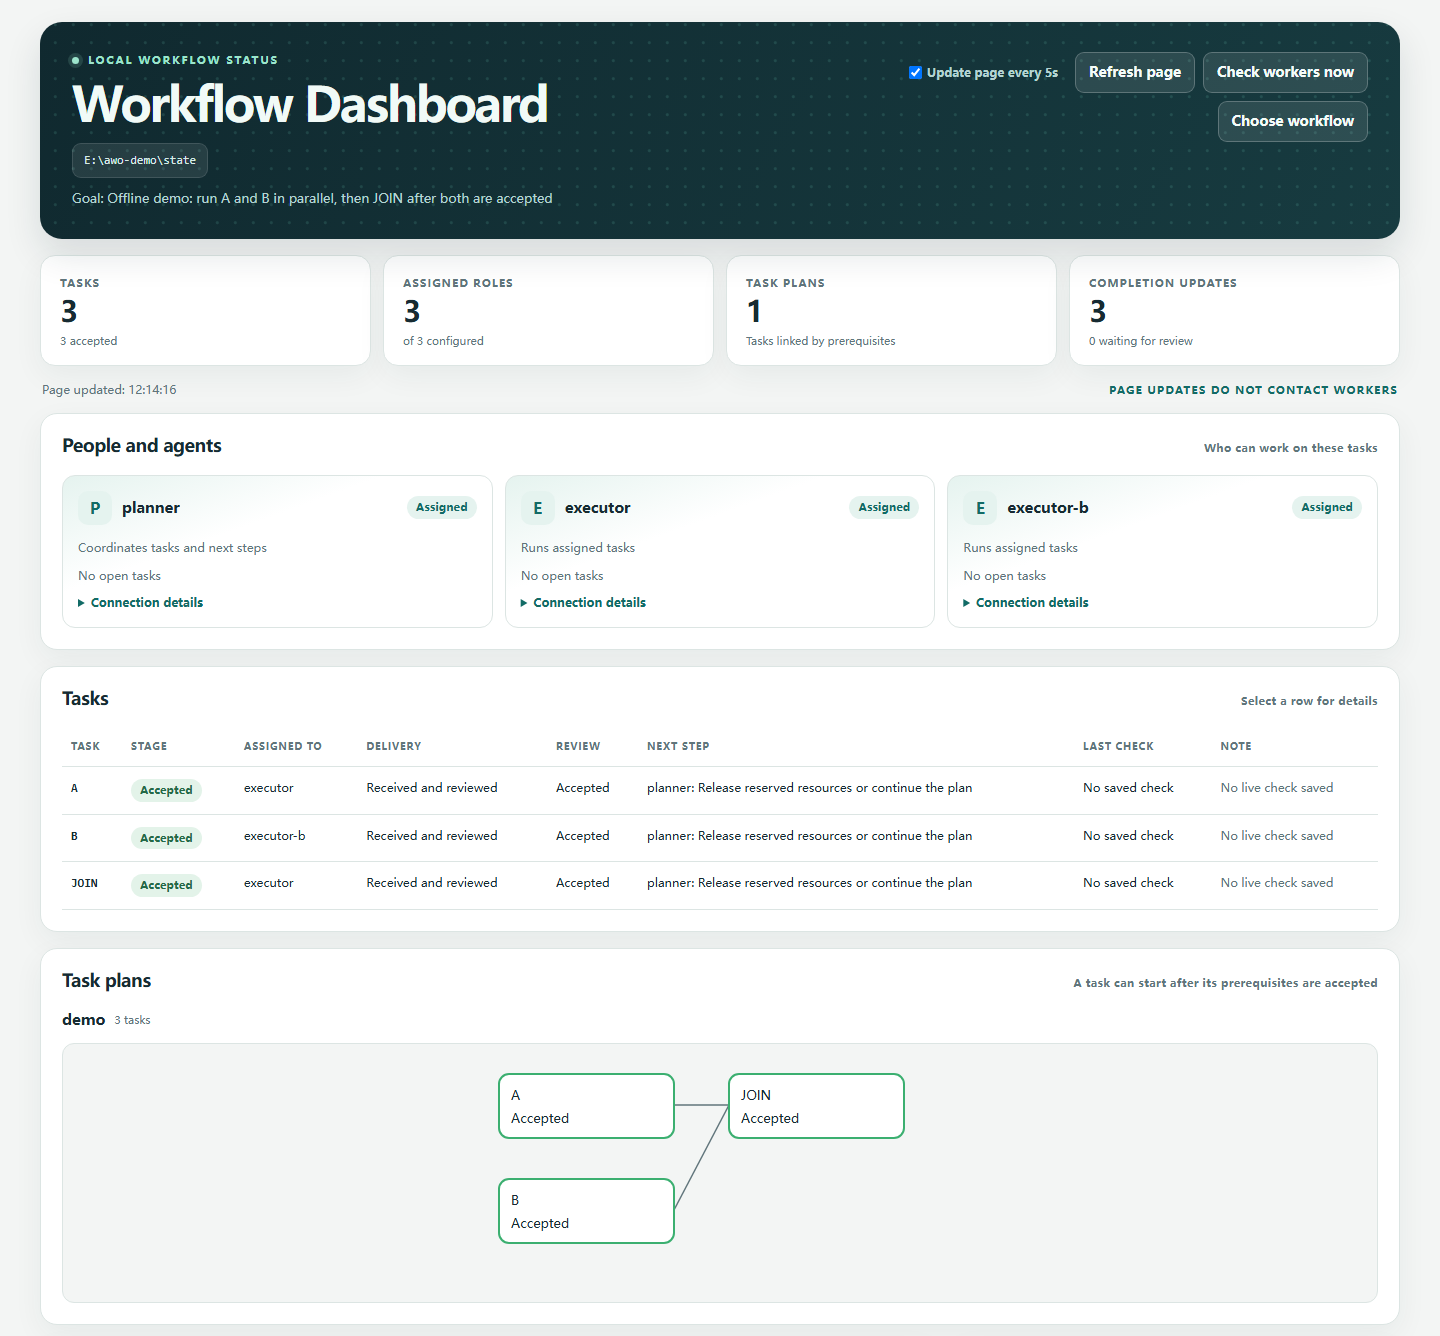
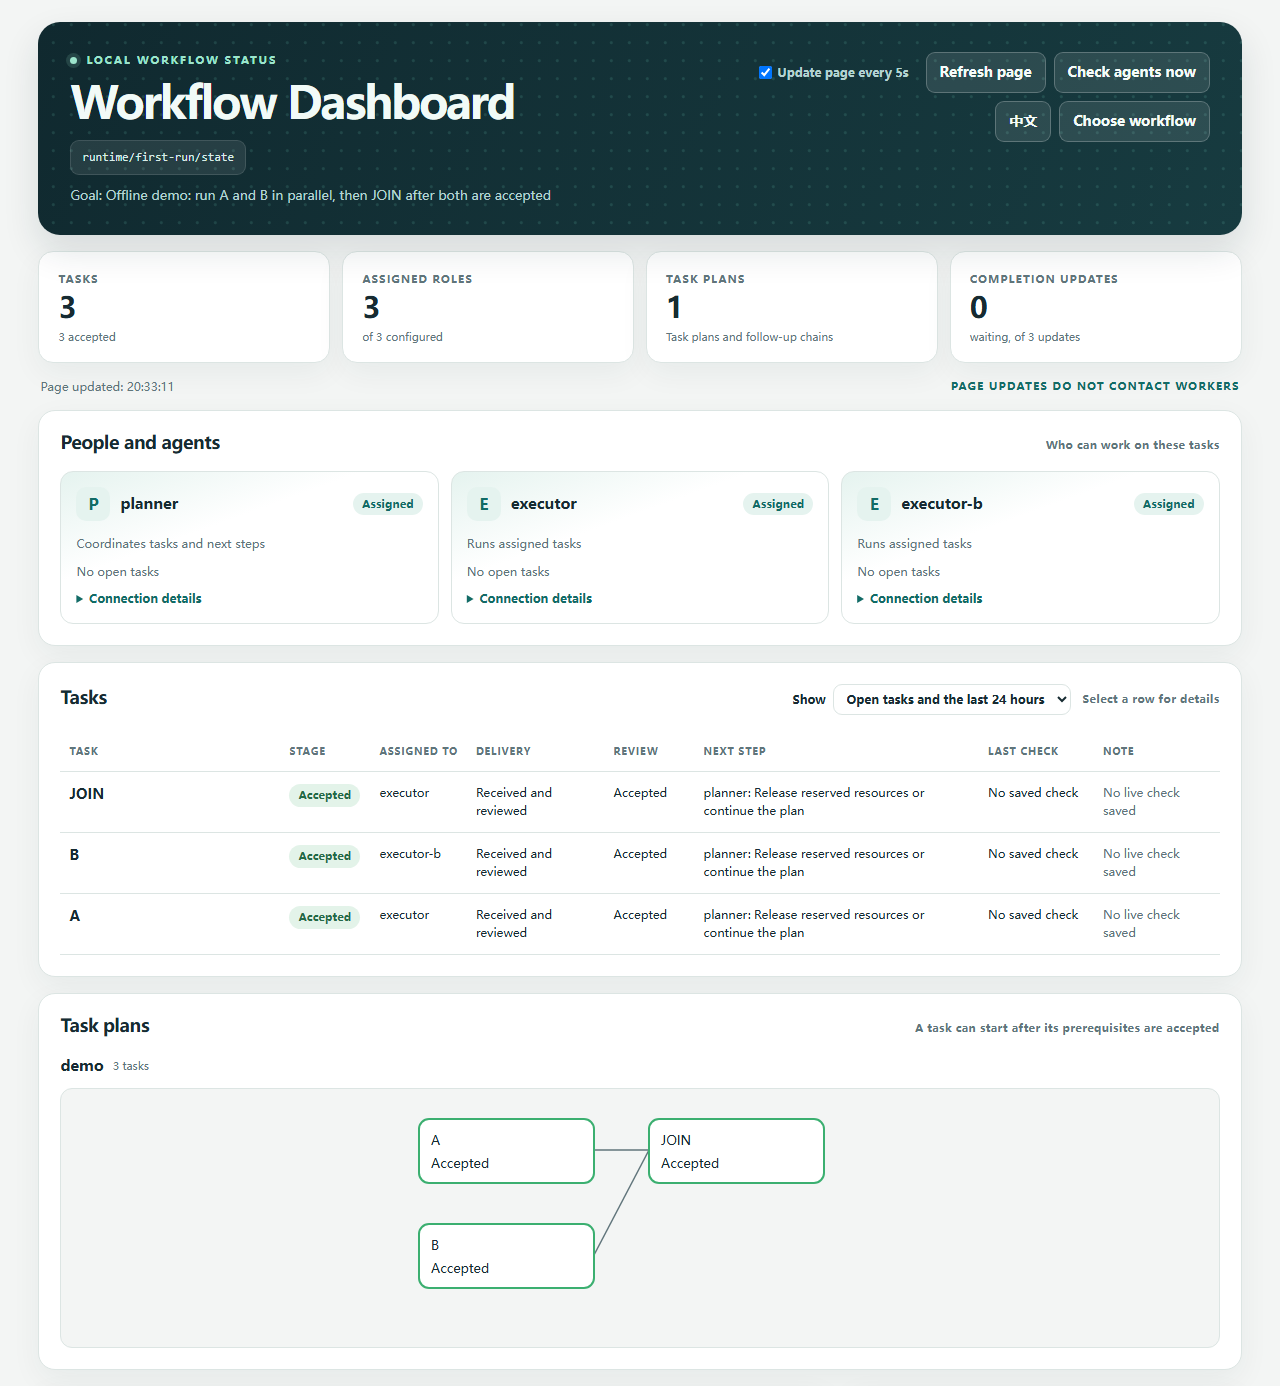
docs: describe stall recovery, pane names and the current dashboard (#5)
The README covers stall recovery and bounded continuation, Herdr pane names, the attention-first dashboard with opt-in actions and remote access, and a refreshed screenshot.

diff --git a/README.md b/README.md
@@ -12,7 +12,7 @@ With this tool:
 
 1. The **Planner** agent writes a task (objective, scope, acceptance criteria) and dispatches it once to the **Executor** agent.
 2. A script polls the Executor's *status* every 5 minutes. It does not ask a model to reread the conversation, so monitoring costs almost nothing.
-3. When the Executor finishes and the expected files (for example `RESULT.md`, `HANDOFF.md`) pass validation, the script records one completion event for the reviewer. Direct prompting is optional.
+3. When the Executor finishes and the expected files (for example `RESULT.md`, `HANDOFF.md`) pass validation, the script records one completion event for the reviewer. Direct prompting is optional. If the Executor stops early or waits on a prompt, that is reported once and watching continues.
 4. The reviewer checks the raw evidence, records `accept`, `repair`, or `reject`, and, if you authorized it, dispatches the next task.
 
 The repository contains two parts:
@@ -133,7 +133,7 @@ python scripts/workflow_control.py --state /abs/state bind --role planner --spec
 python scripts/workflow_control.py --state /abs/state bind --role executor --spec worker.json --mode worker
 ```
 
-`bind` queries the live session and refuses a mismatched identity. Save the controller `instance_id` and `version` it prints; later commands pass them as `--actor` and `--version`.
+`bind` queries the live session and refuses a mismatched identity. Save the controller `instance_id` and `version` it prints; later commands pass them as `--actor` and `--version`. With Herdr, the bound pane is also named `awo:<role>` so you can see which pane is which; a name you set yourself is kept. `workflow_control.py --state /abs/state roles` shows every role's pane and whether its identity still matches.
 
 ### 4. Write the task and its request
 
@@ -178,6 +178,8 @@ python scripts/monitor_task.py --request /abs/task/confirmed.json --notify
 
 The monitor polls every 300 seconds by default and runs until completion or an exception. There is no default overall time limit, but each status query has a timeout. With `workflow_state`, `--notify` records an inbox event even when `authorization.notify_reviewer` is false. With `inbox_only`, it never prompts the reviewer directly. Background startup and the full status contract: [monitoring.md](references/monitoring.md).
 
+If the Executor stops early (quota, rate limit, network) or waits on a permission prompt, the monitor reports it once and keeps watching the same task, so a later delivery still reaches review. After a stop without delivery, the controller can send one bounded `workflow_scheduler.py continue --task TASK-ID` for the same task instead of resending it. Permission prompts are left for you to answer in the Executor's own window. Details: [scheduling.md](references/scheduling.md#stalls-permission-prompts-and-bounded-continuation).
+
 ### 7. Review and continue
 
 ```sh
@@ -189,15 +191,15 @@ python scripts/workflow_control.py --state /abs/state next-check --event EVENT_I
 
 The reviewer reads the raw evidence and writes `REVIEW.md` with the task ID, nonce, and verdict. `next-check` returns a `parent_review` record; put it in the next task's request to link the follow-up. Without `continuous_execution_authorized`, the controller stops here and reports back to you.
 
-For a local ledger view, open the optional dashboard. It shows bindings, tasks, DAGs, inbox events, resources, and alerts without contacting agents; live probing needs a button click. Any of these opens it in your browser:
+For a local ledger view, open the optional dashboard. It reads the ledger without contacting agents and leads with what needs you: open and recent tasks (older finished ones fold behind a range selector), follow-up chains as compact cards, updates waiting for review, and alerts that need a check. Titles come from each task's `TASK.md`, without IDs, hashes, or paths. **Check agents now** queries agents only when clicked. The interface switches between English and Chinese. Any of these opens it in your browser:
 
 - Double-click `dashboard.cmd` (Windows) or `dashboard.command` (macOS) in the repository folder, then pick a recent state directory or paste one.
 - Ask the controller agent to "open the dashboard"; the Skill tells it how.
 - Run `python -B scripts/dashboard.py`, optionally with `--state /abs/state`.
 
-![Dashboard after the offline demo: goal, three assigned roles, three accepted tasks, and the A/B to JOIN task plan](docs/images/dashboard.png)
+![Dashboard after the offline demo: goal, three assigned roles, open and recent tasks, and the A/B to JOIN task plan](docs/images/dashboard.png)
 
-Authorized form dispatch is opt-in and still requires an independently observed `reconcile` step; see [monitoring.md](references/monitoring.md).
+Actions are off unless you start the dashboard with them: `--allow-dispatch` adds form dispatch and review actions (dispatch still requires an independently observed `reconcile`), and `--allow-chat` lets the bound controller message any active role. To open it from a phone or another computer, use `--lan` (private-network HTTPS), an SSH tunnel, or a private HTTPS proxy with `--public-origin`. The token URL grants these actions, so give it only to people who may use them. See [monitoring.md](references/monitoring.md).
 
 At any time, `workflow_control.py --state /abs/state status --summary --format text` shows each task's phase and the next expected action. The main phases:
 
@@ -216,7 +218,8 @@ At any time, `workflow_control.py --state /abs/state status --summary --format t
 
 - **Configuration is not permission.** Dispatch, notification, and continuous execution each need explicit authorization from you. A notification is not new authorization.
 - **Done means reviewed.** An idle terminal, a zero exit code, or `review_ready` never counts as acceptance. Only a recorded review does.
-- **No blind retries.** Each task is sent once. If a send or notification is uncertain, it is recorded and left for inspection.
+- **No blind retries.** Each task is sent once. If a send or notification is uncertain, it is recorded and left for inspection. A `continue` for a stopped task is bounded, journaled, and never retried.
+- **Pauses are not endings.** A worker that stops early or waits on a prompt keeps its monitor; a pause cannot be reviewed while the task is open, and approval prompts are never answered automatically.
 - **One controller.** Old bindings lose authority after a switch. Side conversations can advise but cannot acknowledge, review, or dispatch.
 - **Stopping the monitor does not stop the worker.** Cancel work separately.
 - **Context flags are trusted input.** `--context main` is declared by the operator or a bridge; it is not authentication.
@@ -252,11 +255,11 @@ agents/openai.yaml                 Skill UI metadata
 references/                        Detailed guides and contracts
 examples/                          workflow.json, request.herdr.json, dag.json, job.json
 docs/images/                       README images
-scripts/workflow_control.py        State, bindings, inbox, review gates, status
-scripts/workflow_scheduler.py      Dispatch, DAGs, resource claims
-scripts/monitor_task.py            Status polling and one-time notification
+scripts/workflow_control.py        State, bindings, pane names, inbox, review gates, status
+scripts/workflow_scheduler.py      Dispatch, bounded continuation, DAGs, resource claims
+scripts/monitor_task.py            Status polling, stall reports, and one-time notification
 scripts/run_job.py                 One-shot CLI jobs with receipts
 scripts/demo_scheduler.py          Offline demo
-scripts/dashboard.py               Local ledger dashboard and optional dispatch form
+scripts/dashboard.py               Local ledger dashboard with optional dispatch, review, and chat
 dashboard.cmd / dashboard.command  Double-click launchers for the dashboard
 ```

diff --git a/README.zh-CN.md b/README.zh-CN.md
@@ -12,7 +12,7 @@
 
 1. **Planner** Agent 写好任务（目标、范围、验收标准），向 **Executor** Agent 只派发一次。
 2. 脚本每 5 分钟查询一次 Executor 的*状态*。它不会让模型反复重读对话，所以监控几乎不消耗成本。
-3. Executor 完成且约定的交付文件（如 `RESULT.md`、`HANDOFF.md`）通过校验后，脚本为审核者记录一次完成事件；直接发送提示是可选的。
+3. Executor 完成且约定的交付文件（如 `RESULT.md`、`HANDOFF.md`）通过校验后，脚本为审核者记录一次完成事件；直接发送提示是可选的。Executor 提前停止或停在提示上时，也会报告一次并继续观察。
 4. 审核者检查原始证据，记录 `accept`、`repair` 或 `reject`；如果你已授权，再派发下一个任务。
 
 仓库由两部分组成：
@@ -133,7 +133,7 @@ python scripts/workflow_control.py --state /abs/state bind --role planner --spec
 python scripts/workflow_control.py --state /abs/state bind --role executor --spec worker.json --mode worker
 ```
 
-`bind` 会查询实时会话，身份不符时拒绝绑定。请保存它输出的控制者 `instance_id` 和 `version`，后续命令通过 `--actor` 和 `--version` 传入。
+`bind` 会查询实时会话，身份不符时拒绝绑定。请保存它输出的控制者 `instance_id` 和 `version`，后续命令通过 `--actor` 和 `--version` 传入。使用 Herdr 时，绑定的 pane 还会被命名为 `awo:<角色>`，方便分辨哪个窗格是哪个角色；你自己起的名字会保留。`workflow_control.py --state /abs/state roles` 显示每个角色对应的窗格，以及身份是否仍一致。
 
 ### 4. 编写任务及其请求
 
@@ -178,6 +178,8 @@ python scripts/monitor_task.py --request /abs/task/confirmed.json --notify
 
 监控默认每 300 秒轮询一次，直到完成或出现异常为止。默认没有总时长上限，但每次状态查询都有超时。设置了 `workflow_state` 后，即使 `authorization.notify_reviewer` 为 false，`--notify` 仍会记录收件箱事件；在 `inbox_only` 策略下绝不直接提示审核者。后台启动方式和完整的状态约定见 [monitoring.zh-CN.md](references/monitoring.zh-CN.md)。
 
+如果 Executor 提前停止（额度、限流、网络）或停在权限提示上，监控只报告一次，然后继续观察同一个任务，之后完成的交付仍会进入审核。未交付就停止时，控制者可以对同一任务发送一次受限的 `workflow_scheduler.py continue --task TASK-ID`，而不是重新派发。权限提示留给你在 Executor 自己的窗口中处理。详见 [scheduling.zh-CN.md](references/scheduling.zh-CN.md#中途停顿权限提示与受限继续)。
+
 ### 7. 审核并继续
 
 ```sh
@@ -189,15 +191,15 @@ python scripts/workflow_control.py --state /abs/state next-check --event EVENT_I
 
 审核者阅读原始证据，编写包含任务 ID、nonce 和结论的 `REVIEW.md`。`next-check` 返回一条 `parent_review` 记录，把它写入下一个任务的请求以关联后续任务。未授权 `continuous_execution_authorized` 时，控制者到此停止并向你汇报。
 
-如需在本机查看台账，可打开可选状态面板。它显示绑定、任务、DAG、收件箱、资源和告警，不会自动联系 Agent；实时探测须手动点击按钮。以下任一方式都会在浏览器中打开面板：
+如需在本机查看台账，可打开可选状态面板。它只读台账、不联系 Agent，并把需要你处理的内容放在前面：进行中和最近的任务（较早已结束的任务按时间范围折叠）、以卡片显示的后续任务链、等待审核的更新，以及需要检查的提醒。任务标题取自各任务的 `TASK.md`，不显示 ID、哈希或路径。**立即检查 Agent** 只在点击时查询 Agent。界面可在中文和英文之间切换。以下任一方式都会在浏览器中打开面板：
 
 - 在仓库文件夹中双击 `dashboard.cmd`（Windows）或 `dashboard.command`（macOS），再选择最近用过的状态目录或粘贴路径。
 - 对控制者 Agent 说“打开状态面板”，Skill 已写明做法。
 - 运行 `python -B scripts/dashboard.py`，可加 `--state /abs/state`。
 
-![离线演示后的状态面板：目标、三个已绑定角色、三个已通过的任务，以及 A/B 到 JOIN 的任务计划](docs/images/dashboard.png)
+![离线演示后的状态面板：目标、三个已绑定角色、进行中和最近的任务，以及 A/B 到 JOIN 的任务计划](docs/images/dashboard.png)
 
-表单派发需要显式启用，仍须独立观察执行并运行 `reconcile`；详见 [monitoring.zh-CN.md](references/monitoring.zh-CN.md)。
+操作功能默认关闭，需要在启动时开启：`--allow-dispatch` 开启表单派发和审核操作（派发后仍须独立观察执行并运行 `reconcile`），`--allow-chat` 让已绑定的控制者给任意有效角色发消息。要从手机或其他电脑打开，可使用 `--lan`（私有网络 HTTPS）、SSH 隧道，或配合 `--public-origin` 的私有 HTTPS 代理。带令牌的地址就代表这些操作权限，只交给可以使用它们的人。详见 [monitoring.zh-CN.md](references/monitoring.zh-CN.md)。
 
 任何时候都可以用 `workflow_control.py --state /abs/state status --summary --format text` 查看各任务所处阶段和下一步动作。主要阶段如下：
 
@@ -216,7 +218,8 @@ python scripts/workflow_control.py --state /abs/state next-check --event EVENT_I
 
 - **配置不等于授权。** 派发、通知和连续执行都需要你明确授权。通知本身也不构成新的授权。
 - **完成以审核为准。** 终端空闲、退出码为 0 或 `review_ready` 都不算通过，只有登记的审核结论才算。
-- **不盲目重试。** 每个任务只发送一次。发送或通知结果不确定时，会被记录下来留待检查。
+- **不盲目重试。** 每个任务只发送一次。发送或通知结果不确定时，会被记录下来留待检查。对中途停止任务的 `continue` 有次数限制、先记账，且不会重试。
+- **暂停不等于结束。** Worker 提前停止或停在提示上时，监控继续进行；任务未关闭时不能审核暂停事件，审批提示从不自动回答。
 - **只有一个控制者。** 切换后旧绑定失去权限。旁支对话可以提供建议，但不能确认事件、审核或派发。
 - **停止监控不会停止 Worker。** 取消工作需要单独处理。
 - **上下文标志是受信输入。** `--context main` 由操作者或桥接程序声明，不是身份认证。
@@ -252,11 +255,11 @@ agents/openai.yaml                 Skill 界面元数据
 references/                        详细指南与约定
 examples/                          workflow.json、request.herdr.json、dag.json、job.json
 docs/images/                       README 配图
-scripts/workflow_control.py        状态、绑定、收件箱、审核关卡、状态查询
-scripts/workflow_scheduler.py      派发、DAG、资源占用
-scripts/monitor_task.py            状态轮询与一次性通知
+scripts/workflow_control.py        状态、绑定、窗格名称、收件箱、审核关卡、状态查询
+scripts/workflow_scheduler.py      派发、受限继续、DAG、资源占用
+scripts/monitor_task.py            状态轮询、停顿报告与一次性通知
 scripts/run_job.py                 带回执的一次性 CLI 作业
 scripts/demo_scheduler.py          离线演示
-scripts/dashboard.py               本地台账面板与可选派发表单
+scripts/dashboard.py               本地台账面板，可选派发、审核和对话
 dashboard.cmd / dashboard.command  双击启动面板
 ```
